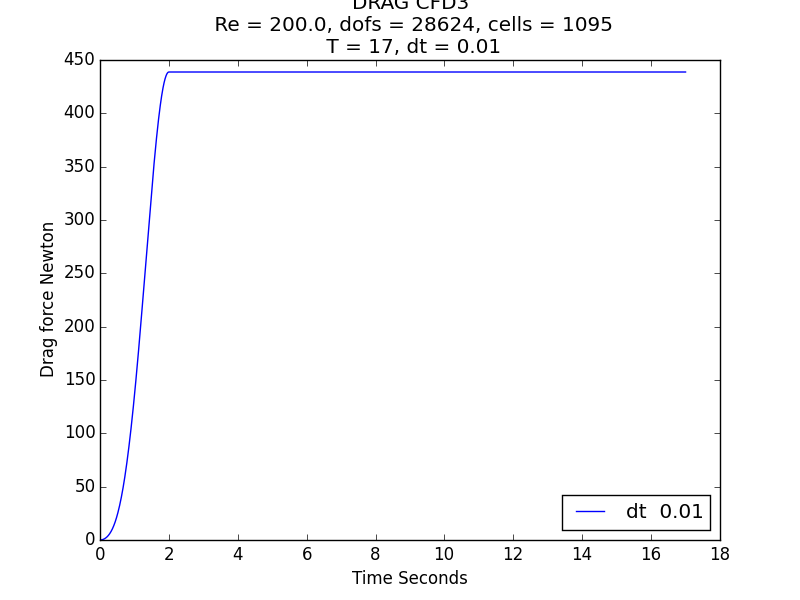
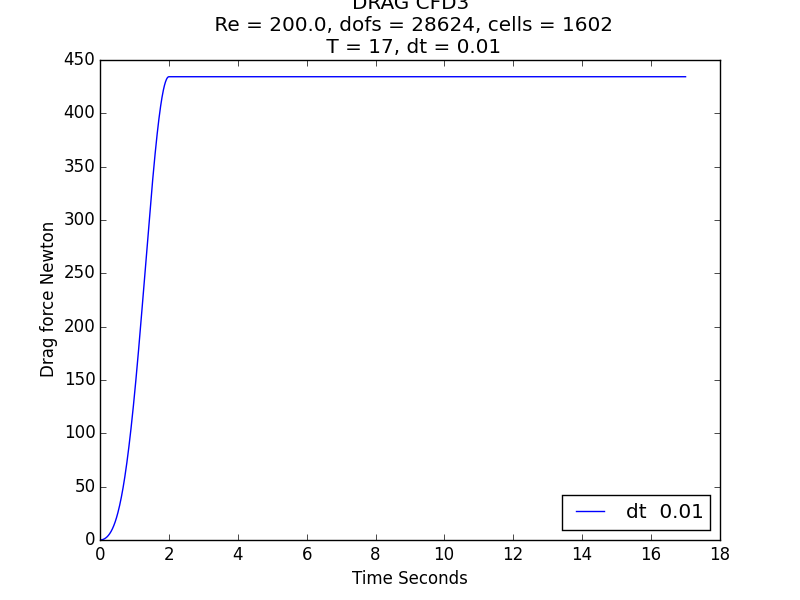
run

Changed region(s): [[0.1875, 0.12, 0.8438, 0.18], [0.7188, 0.03, 0.7812, 0.06]]

diff --git a/FluidVerification/Turek_Bar/cfd3.py b/FluidVerification/Turek_Bar/cfd3.py
@@ -163,7 +163,7 @@ def fluid(mesh, T, dt, solver, fig, v_deg, p_deg, theta, m):
         #    - eta*div(u)*dx
 
         F = (rho/k)*inner(u - u0, phi)*dx +\
-			  rho*inner(grad(u)*u0, phi)*dx + \
+			  rho*inner(grad(u)*u, phi)*dx + \
 			  mu*inner(grad(u), grad(phi))*dx - \
 			  div(phi)*p*dx - eta*div(u)*dx
 
